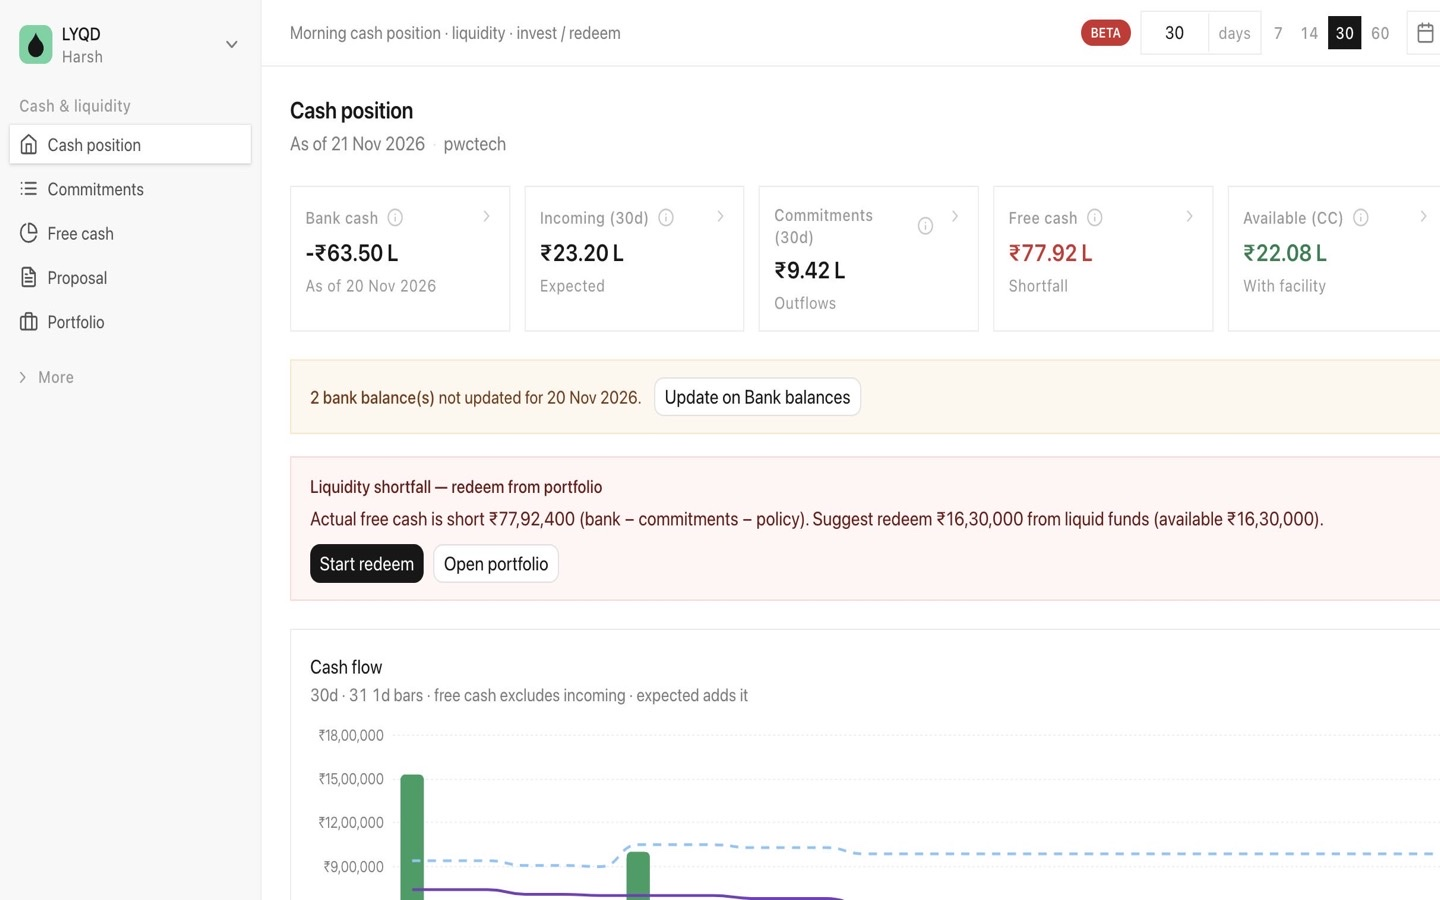
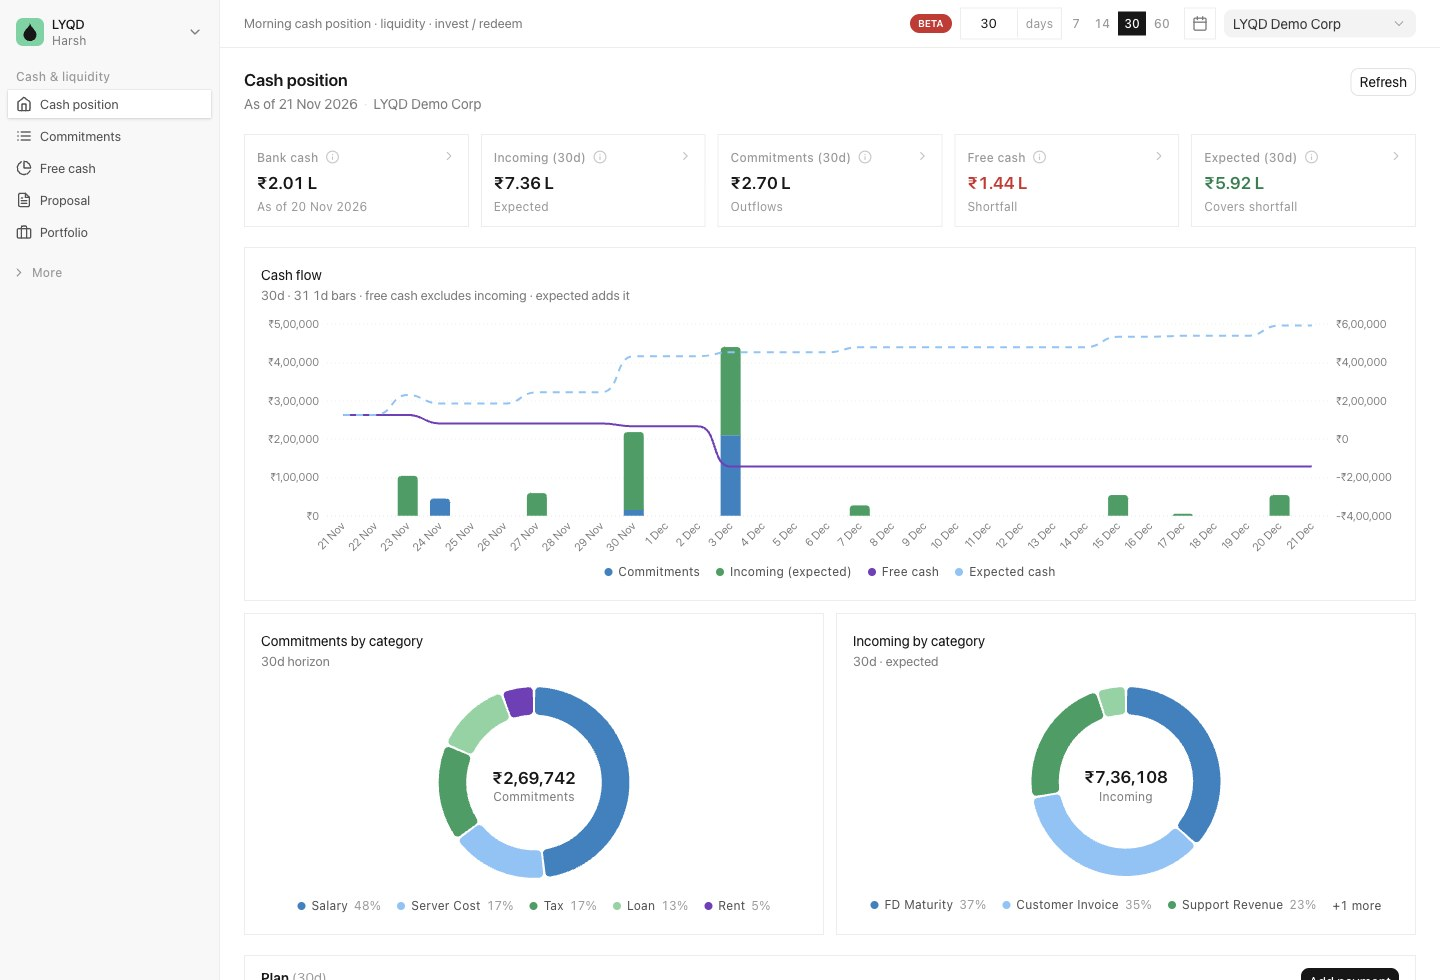
Fix Cash position README shot so cash-flow and category charts are fully visible.

diff --git a/README.md b/README.md
@@ -12,7 +12,7 @@
 
 </div>
 
-![Cash position](docs/screenshots/cash-position-pwctech-laptop.jpg)
+![Cash position](docs/screenshots/cash-position-pwctech-laptop.jpg?v=charts)
 
 
 LYQD helps finance teams see bank cash, upcoming payments, and free cash in one place — then create an **Invest** or **Redeem** instruction when they’re ready.
@@ -46,7 +46,7 @@ Cash position  →  Commitments  →  Free cash  →  Proposal  →  Portfolio
 
 Your morning view: bank cash, incoming, commitments, free cash (or shortfall), and a cash-flow chart for the horizon.
 
-![Cash position](docs/screenshots/cash-position-pwctech-laptop.jpg)
+![Cash position](docs/screenshots/cash-position-pwctech-laptop.jpg?v=charts)
 
 Use the day picker (7 / 14 / 30 / 60 days) — or type any horizon — to change how far ahead you look.
 
